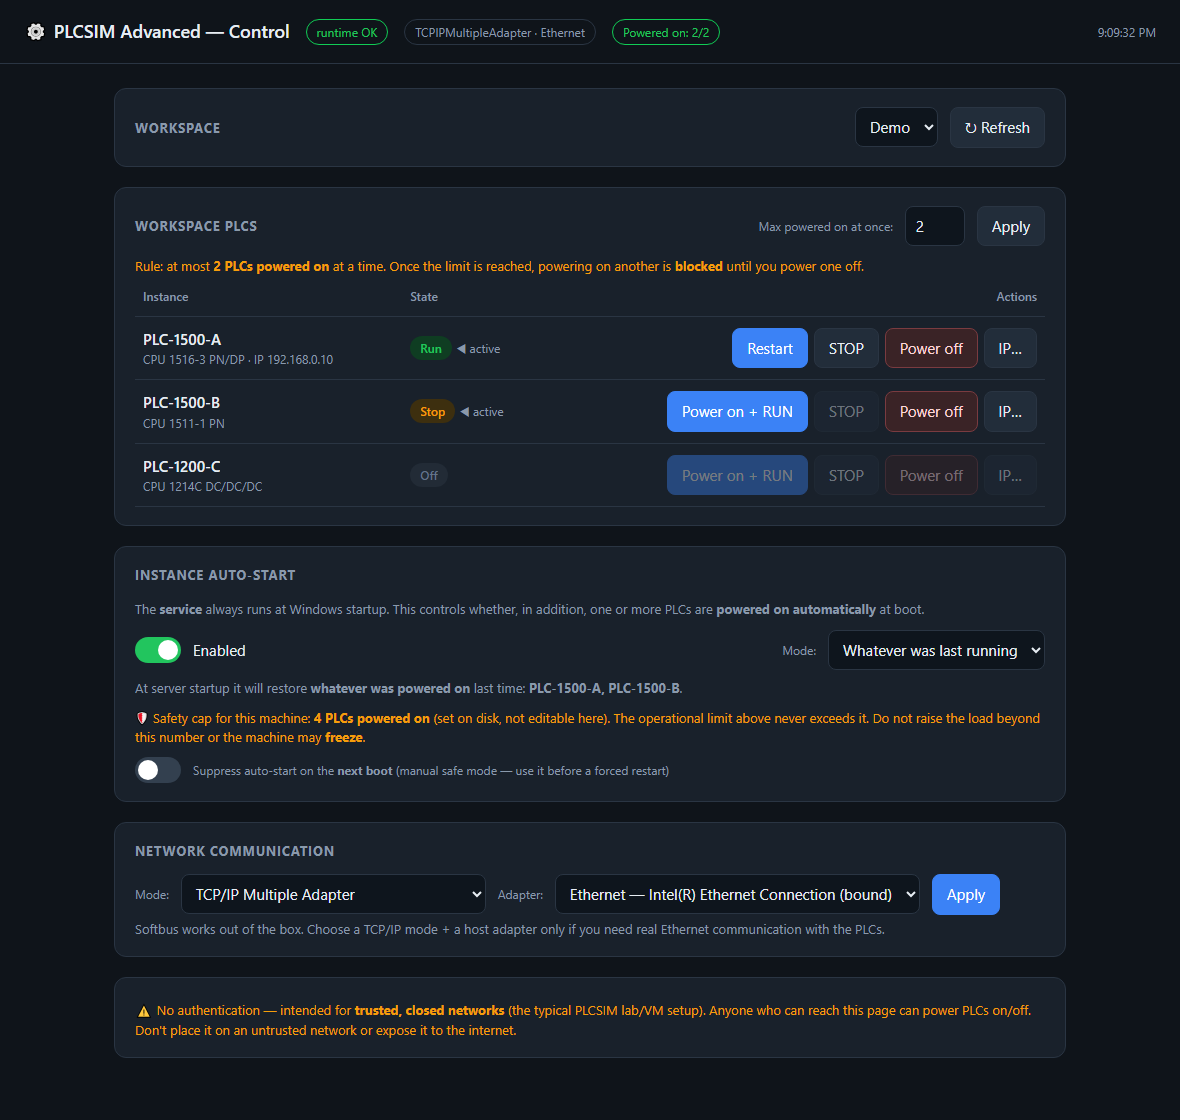
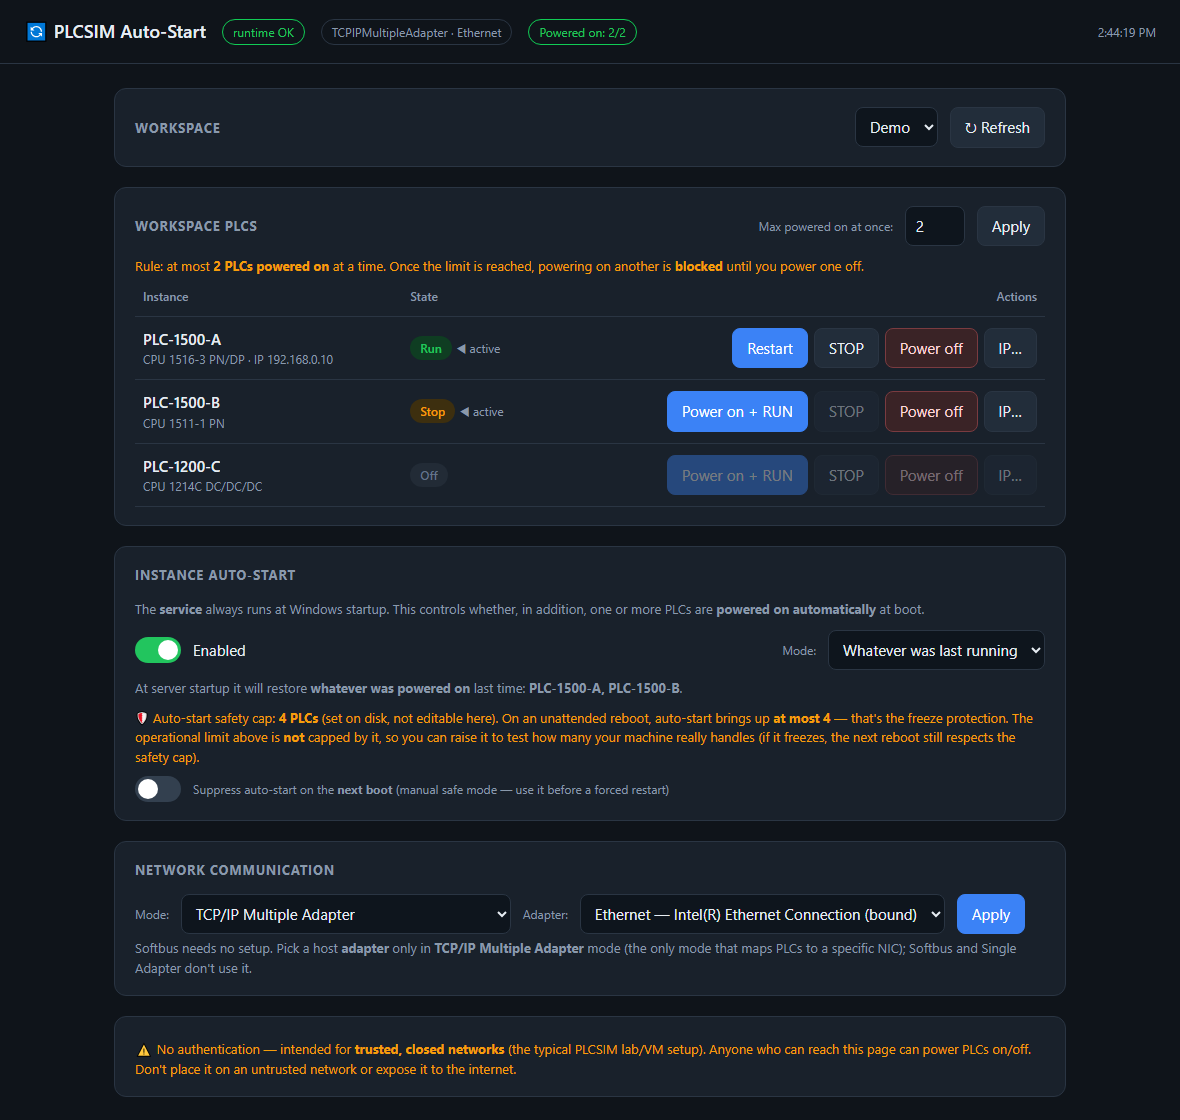
Rename project to PLCSIM Auto-Start (binary PlcsimAutoStart.exe, service 'PLCSIM AutoStart', repo PLCSIM-AutoStart); auto-start now the headline; legacy cleanup of old name; log -> autostart.log; new screenshot

Changed region(s): [[0.0915, 0.75, 0.8847, 0.9688], [0.0915, 0.625, 0.8847, 0.7188], [0.122, 0.0, 0.5492, 0.0312]]

diff --git a/wwwroot/index.html b/wwwroot/index.html
@@ -3,7 +3,7 @@
 <head>
 <meta charset="utf-8">
 <meta name="viewport" content="width=device-width, initial-scale=1">
-<title>PLCSIM Control</title>
+<title>PLCSIM Auto-Start</title>
 <style>
   :root{--bg:#0f141a;--card:#19212b;--line:#2a3543;--mut:#8a99ab;--fg:#e7edf3;--ac:#3b82f6;
         --on:#22c55e;--off:#64748b;--stop:#f59e0b;--bad:#ef4444}
@@ -51,7 +51,7 @@
 </head>
 <body>
 <header>
-  <h1>⚙️ PLCSIM Advanced — Control</h1>
+  <h1>🔄 PLCSIM Auto-Start</h1>
   <span class="pill" id="rt">runtime…</span>
   <span class="pill" id="net">network…</span>
   <span class="pill" id="onpill">—</span>

diff --git a/README.md b/README.md
@@ -1,18 +1,18 @@
-# PLCSIM-WebControl
+# PLCSIM Auto-Start
 
-**Remote web control and automatic startup for Siemens S7-PLCSIM Advanced virtual PLCs.**
+**Automatic startup (and remote web control) for Siemens S7-PLCSIM Advanced virtual PLCs.**
 
-![PLCSIM-WebControl web interface](docs/ui.png)
+![PLCSIM Auto-Start web interface](docs/ui.png)
 
-PLCSIM-WebControl is a small always-on web app that **extends** S7-PLCSIM Advanced — it does **not**
+PLCSIM Auto-Start is a small always-on web app that **extends** S7-PLCSIM Advanced — it does **not**
 replace it. You still create and configure your virtual PLCs in the Siemens PLCSIM Advanced GUI as
-usual; PLCSIM-WebControl reads that workspace and adds what the GUI doesn't give you:
+usual; PLCSIM Auto-Start reads that workspace and adds what the GUI doesn't give you:
 
+- 🔄 **Automatic startup** — your PLCs come back up on their own after a server reboot, completely
+  unattended. This is the headline: the Siemens GUI has no way to do it.
 - 🌐 **Remote control from a browser** — power on, RUN, STOP and power off your PLCs from any machine
   on the network. Drive a simulation host from your own desktop or another VM, with no Siemens GUI and
   no remote-desktop session required.
-- 🔄 **Automatic startup** — have your PLCs come back up on their own after a server reboot,
-  completely unattended. The original GUI can't do this.
 - 💾 **Persistent by default** — every instance is registered against PLCSIM's persistent storage, so a
   PLC's downloaded program survives a restart. Combined with auto-start, a PLC comes back on its own
   after a reboot — nothing to re-open, nothing to re-download from TIA.
@@ -54,8 +54,8 @@ Beyond remote control and auto-start:
 ## Quick start (no programming needed)
 
 1. **Download** the project — green **Code** button → **Download ZIP**. You get
-   **`PLCSIM-WebControl-main.zip`** (the prebuilt `PlcsimWebControl.exe` is inside). Extract it anywhere;
-   it produces a `PLCSIM-WebControl-main` folder.
+   **`PLCSIM-AutoStart-main.zip`** (the prebuilt `PlcsimAutoStart.exe` is inside). Extract it anywhere;
+   it produces a `PLCSIM-AutoStart-main` folder.
 2. **Double-click `Install.cmd`** and accept the admin prompt (UAC). It sets everything up: detects
    your PLCSIM Advanced install, makes the UI reachable from the LAN (no authentication; it opens the
    firewall for the port), creates `appconfig.txt`, installs an always-on **Windows Service** (Start/Stop
@@ -72,8 +72,8 @@ That's it. To remove it later, run `.\scripts\uninstall.ps1` as administrator.
 
 ## For developers
 
-The prebuilt `PlcsimWebControl.exe` ships in the repo. Only if you change the backend
-(`src\PlcsimWebControl.cs`) or UI (`wwwroot\index.html`), rebuild with `.\scripts\build.ps1` — no IDE
+The prebuilt `PlcsimAutoStart.exe` ships in the repo. Only if you change the backend
+(`src\PlcsimAutoStart.cs`) or UI (`wwwroot\index.html`), rebuild with `.\scripts\build.ps1` — no IDE
 needed, just the in-box .NET Framework compiler.
 
 ---

diff --git a/docs/INSTALL.md b/docs/INSTALL.md
@@ -6,10 +6,10 @@
 - .NET Framework 4.x (already on modern Windows)
 
 ## Install
-1. Download the project — green **Code → Download ZIP** — which gives **`PLCSIM-WebControl-main.zip`**
-   (the prebuilt `PlcsimWebControl.exe` is inside). Extract it; you get a `PLCSIM-WebControl-main` folder.
+1. Download the project — green **Code → Download ZIP** — which gives **`PLCSIM-AutoStart-main.zip`**
+   (the prebuilt `PlcsimAutoStart.exe` is inside). Extract it; you get a `PLCSIM-AutoStart-main` folder.
 2. **Double-click `Install.cmd`** and accept the UAC prompt. It finds the PLCSIM DLL, opens the LAN
-   port, creates `appconfig.txt`, and installs the **Windows Service "PLCSIM WebControl"** (you can
+   port, creates `appconfig.txt`, and installs the **Windows Service "PLCSIM AutoStart"** (you can
    Start/Stop it from `services.msc` / Task Manager). Add `-AsTask` to install a Scheduled Task instead.
 
    > Because it was downloaded from the internet, Windows may first show a security warning ("Windows
@@ -22,9 +22,9 @@
 
 Manage it (or use `services.msc` / Task Manager → Services):
 ```powershell
-Start-Service "PLCSIM WebControl"
-Stop-Service  "PLCSIM WebControl"
-Get-Content .\webcontrol.log -Tail 30 -Wait
+Start-Service "PLCSIM AutoStart"
+Stop-Service  "PLCSIM AutoStart"
+Get-Content .\autostart.log -Tail 30 -Wait
 ```
 
 ## How the service works (the session-0 catch)

diff --git a/docs/TROUBLESHOOTING.md b/docs/TROUBLESHOOTING.md
@@ -2,7 +2,7 @@
 
 Check the log first:
 ```powershell
-Get-Content .\webcontrol.log -Tail 40 -Wait
+Get-Content .\autostart.log -Tail 40 -Wait
 ```
 
 ## "runtime OFF" / runtime manager not reachable
@@ -34,12 +34,12 @@ netsh http add urlacl url=http://+:8090/ user="DOMAIN\User"
 ```
 
 ## Rebuild fails: `CS0016 ... being used by another process`
-The running app locks `PlcsimWebControl.exe`. Stop it first (elevated):
+The running app locks `PlcsimAutoStart.exe`. Stop it first (elevated):
 ```powershell
-Stop-Service "PLCSIM WebControl"            # or: Stop-ScheduledTask -TaskName "PLCSIM WebControl"
-Get-Process PlcsimWebControl | Stop-Process -Force
+Stop-Service "PLCSIM AutoStart"            # or: Stop-ScheduledTask -TaskName "PLCSIM AutoStart"
+Get-Process PlcsimAutoStart | Stop-Process -Force
 .\scripts\build.ps1
-Start-Service "PLCSIM WebControl"           # or: Start-ScheduledTask -TaskName "PLCSIM WebControl"
+Start-Service "PLCSIM AutoStart"           # or: Start-ScheduledTask -TaskName "PLCSIM AutoStart"
 ```
 
 ## Red "SAFE MODE" banner

diff --git a/docs/CONFIGURATION.md b/docs/CONFIGURATION.md
@@ -1,6 +1,6 @@
 # Configuration reference
 
-Settings live in `appconfig.txt` next to `PlcsimWebControl.exe` (`key = value`; `#`/`;` = comment; blank =
+Settings live in `appconfig.txt` next to `PlcsimAutoStart.exe` (`key = value`; `#`/`;` = comment; blank =
 built-in default). The service rewrites this file when you change settings in the UI, so edit it by hand
 only while the service is **stopped**. Start from `appconfig.example.txt`.
 
@@ -60,5 +60,5 @@ only while the service is **stopped**. Start from `appconfig.example.txt`.
 | `run_timeout` | `60000` | RUN/STOP timeout (ms). |
 | `connect_wait_seconds` | `120` | How long to wait for the PLCSIM runtime manager at startup. |
 | `api_dll_path` | auto | Explicit path to `Siemens.Simatic.Simulation.Runtime.Api.x64.dll`. Blank = auto-detect the installed PLCSIM Advanced. Can also be set via the `PLCSIM_API_DLL` environment variable. |
-| `log` | `webcontrol.log` (next to the exe) | Log file path. |
+| `log` | `autostart.log` (next to the exe) | Log file path. |
 | `ip.<InstanceName>` | (none) | Saved IP override for a PLC, format `ip,mask,gateway`, re-applied on every power-on. Created when you set an IP from the UI. |

diff --git a/CHANGELOG.md b/CHANGELOG.md
@@ -30,4 +30,4 @@ First public release.
 - Installs by default as a **Windows Service** (manageable from `services.msc` / Task Manager). Because
   PLCSIM can't run from session 0, the service is a launcher that starts the web app in the logged-in
   interactive session with the user's elevated token. `-AsTask` installs a Scheduled Task instead.
-- The executable is named **`PlcsimWebControl.exe`** (matching the project name).
+- The executable is named **`PlcsimAutoStart.exe`** (matching the project name).